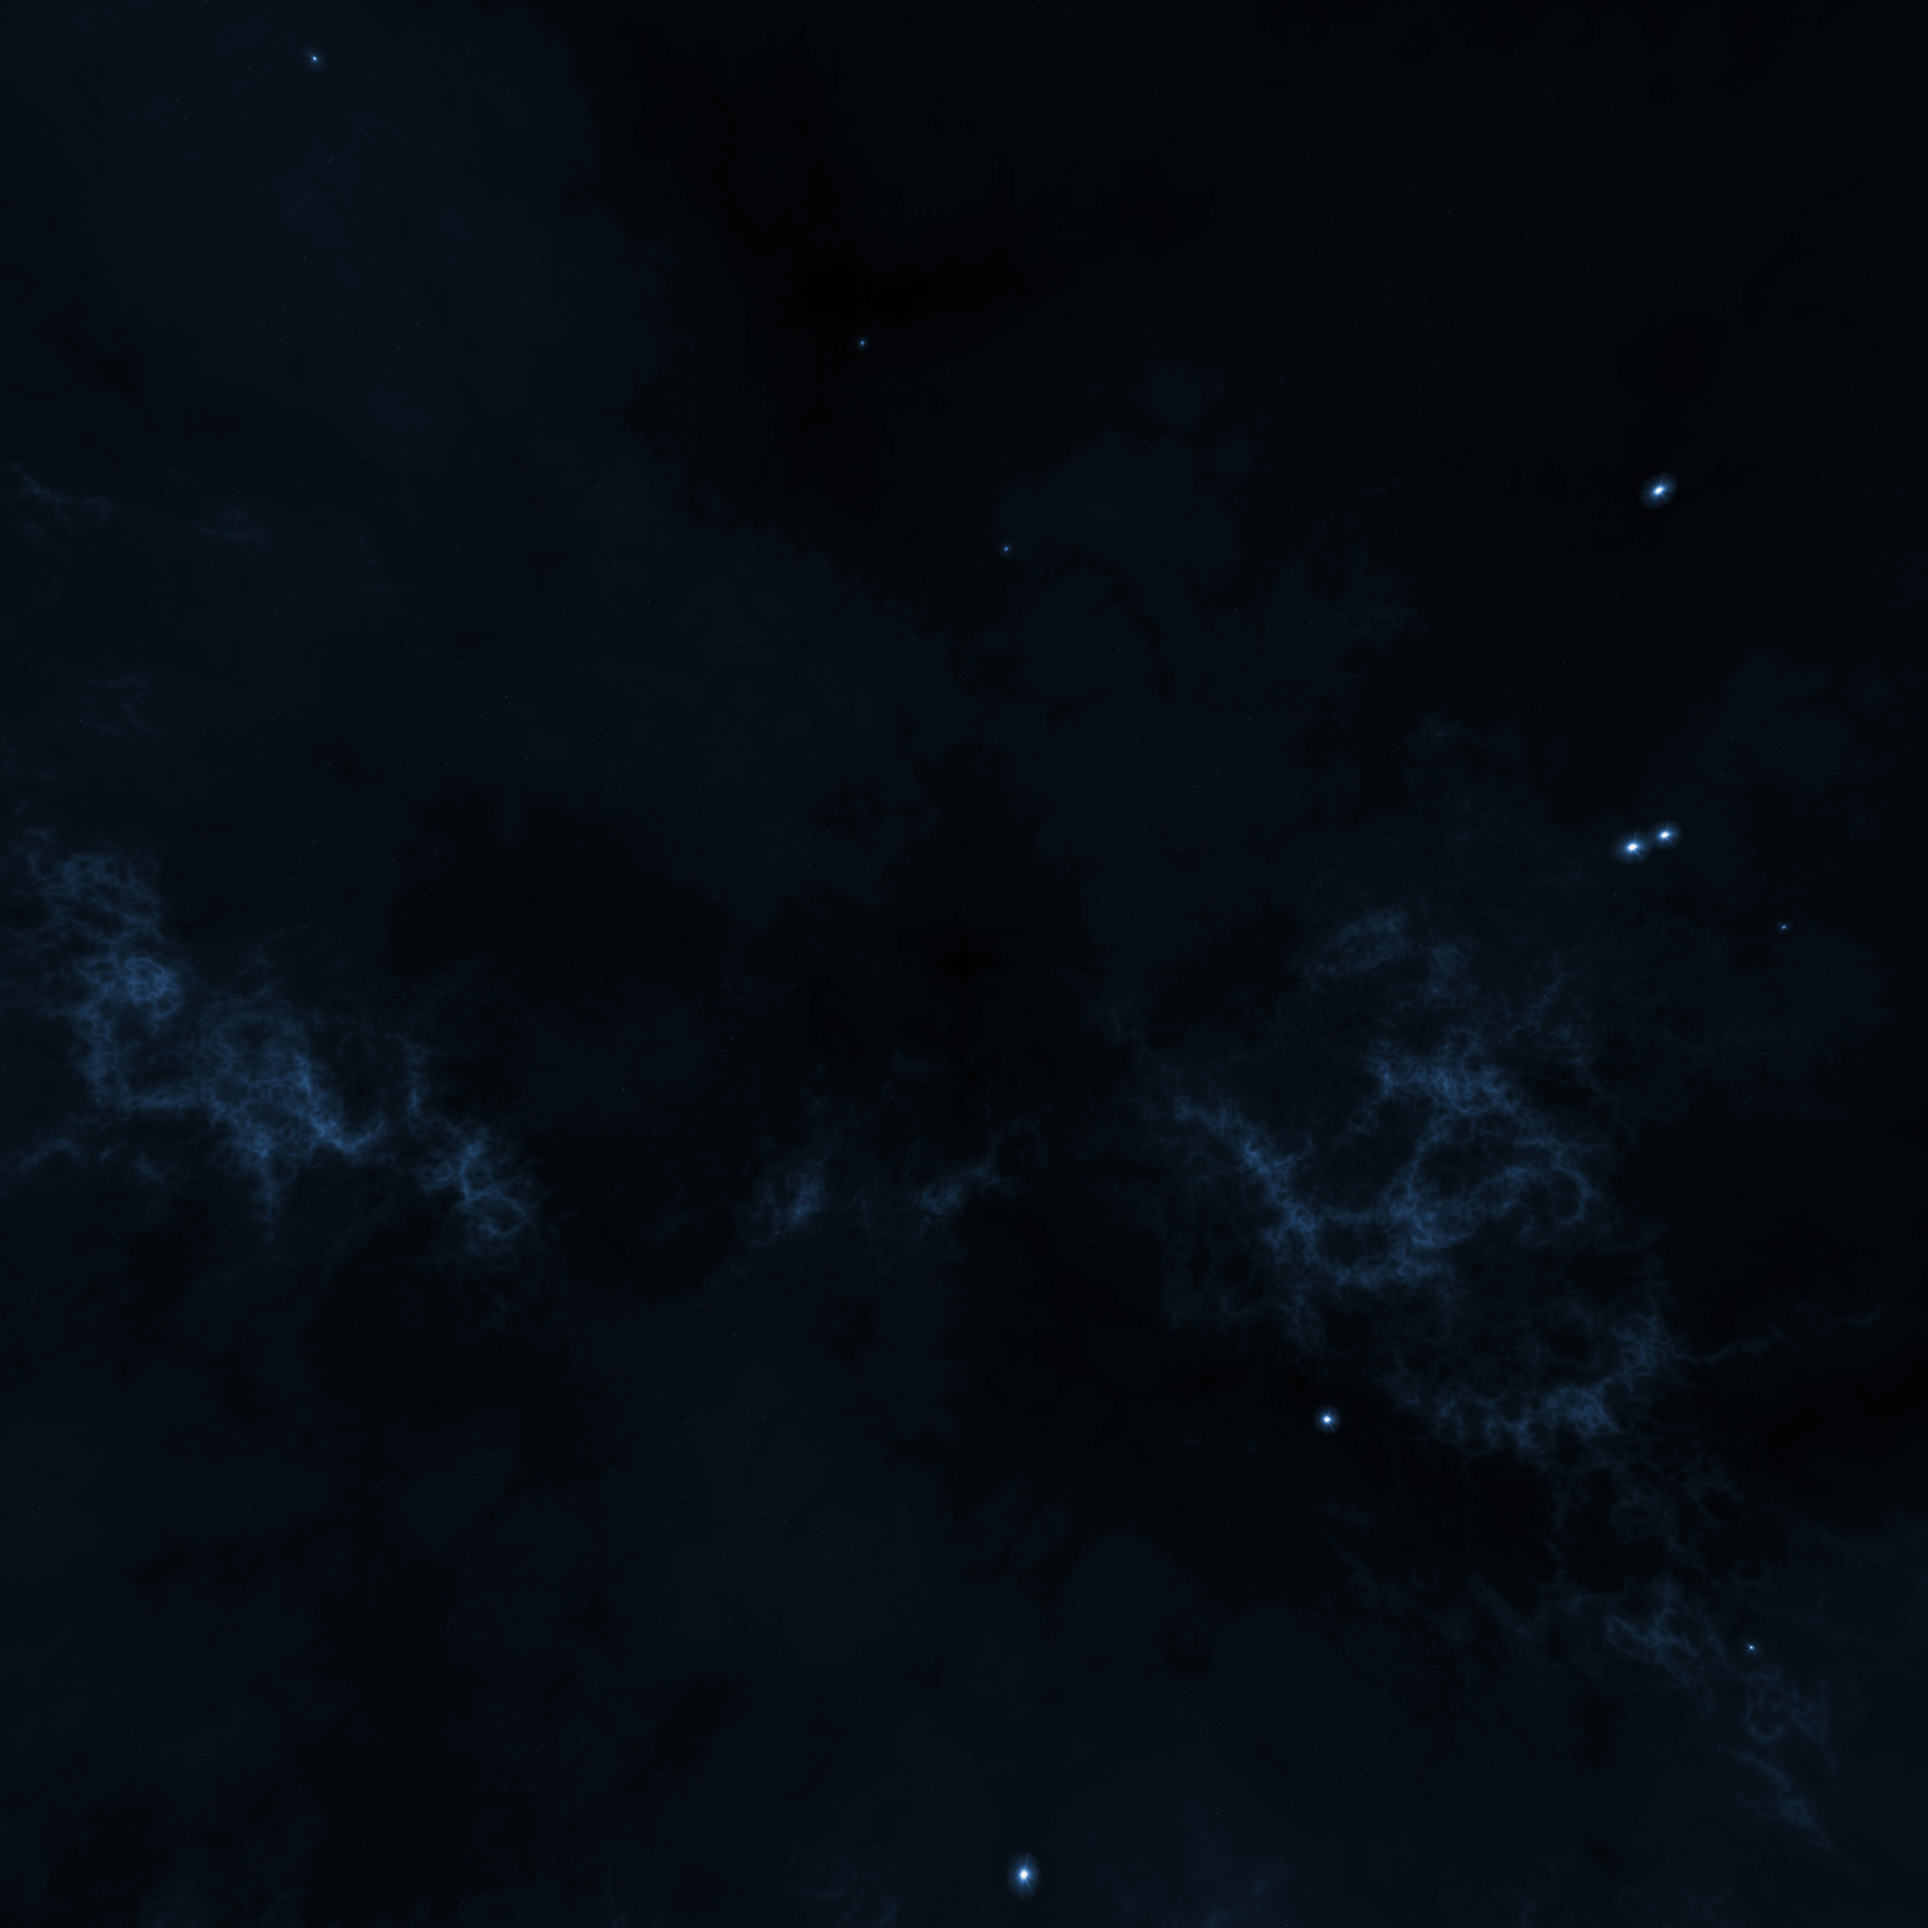
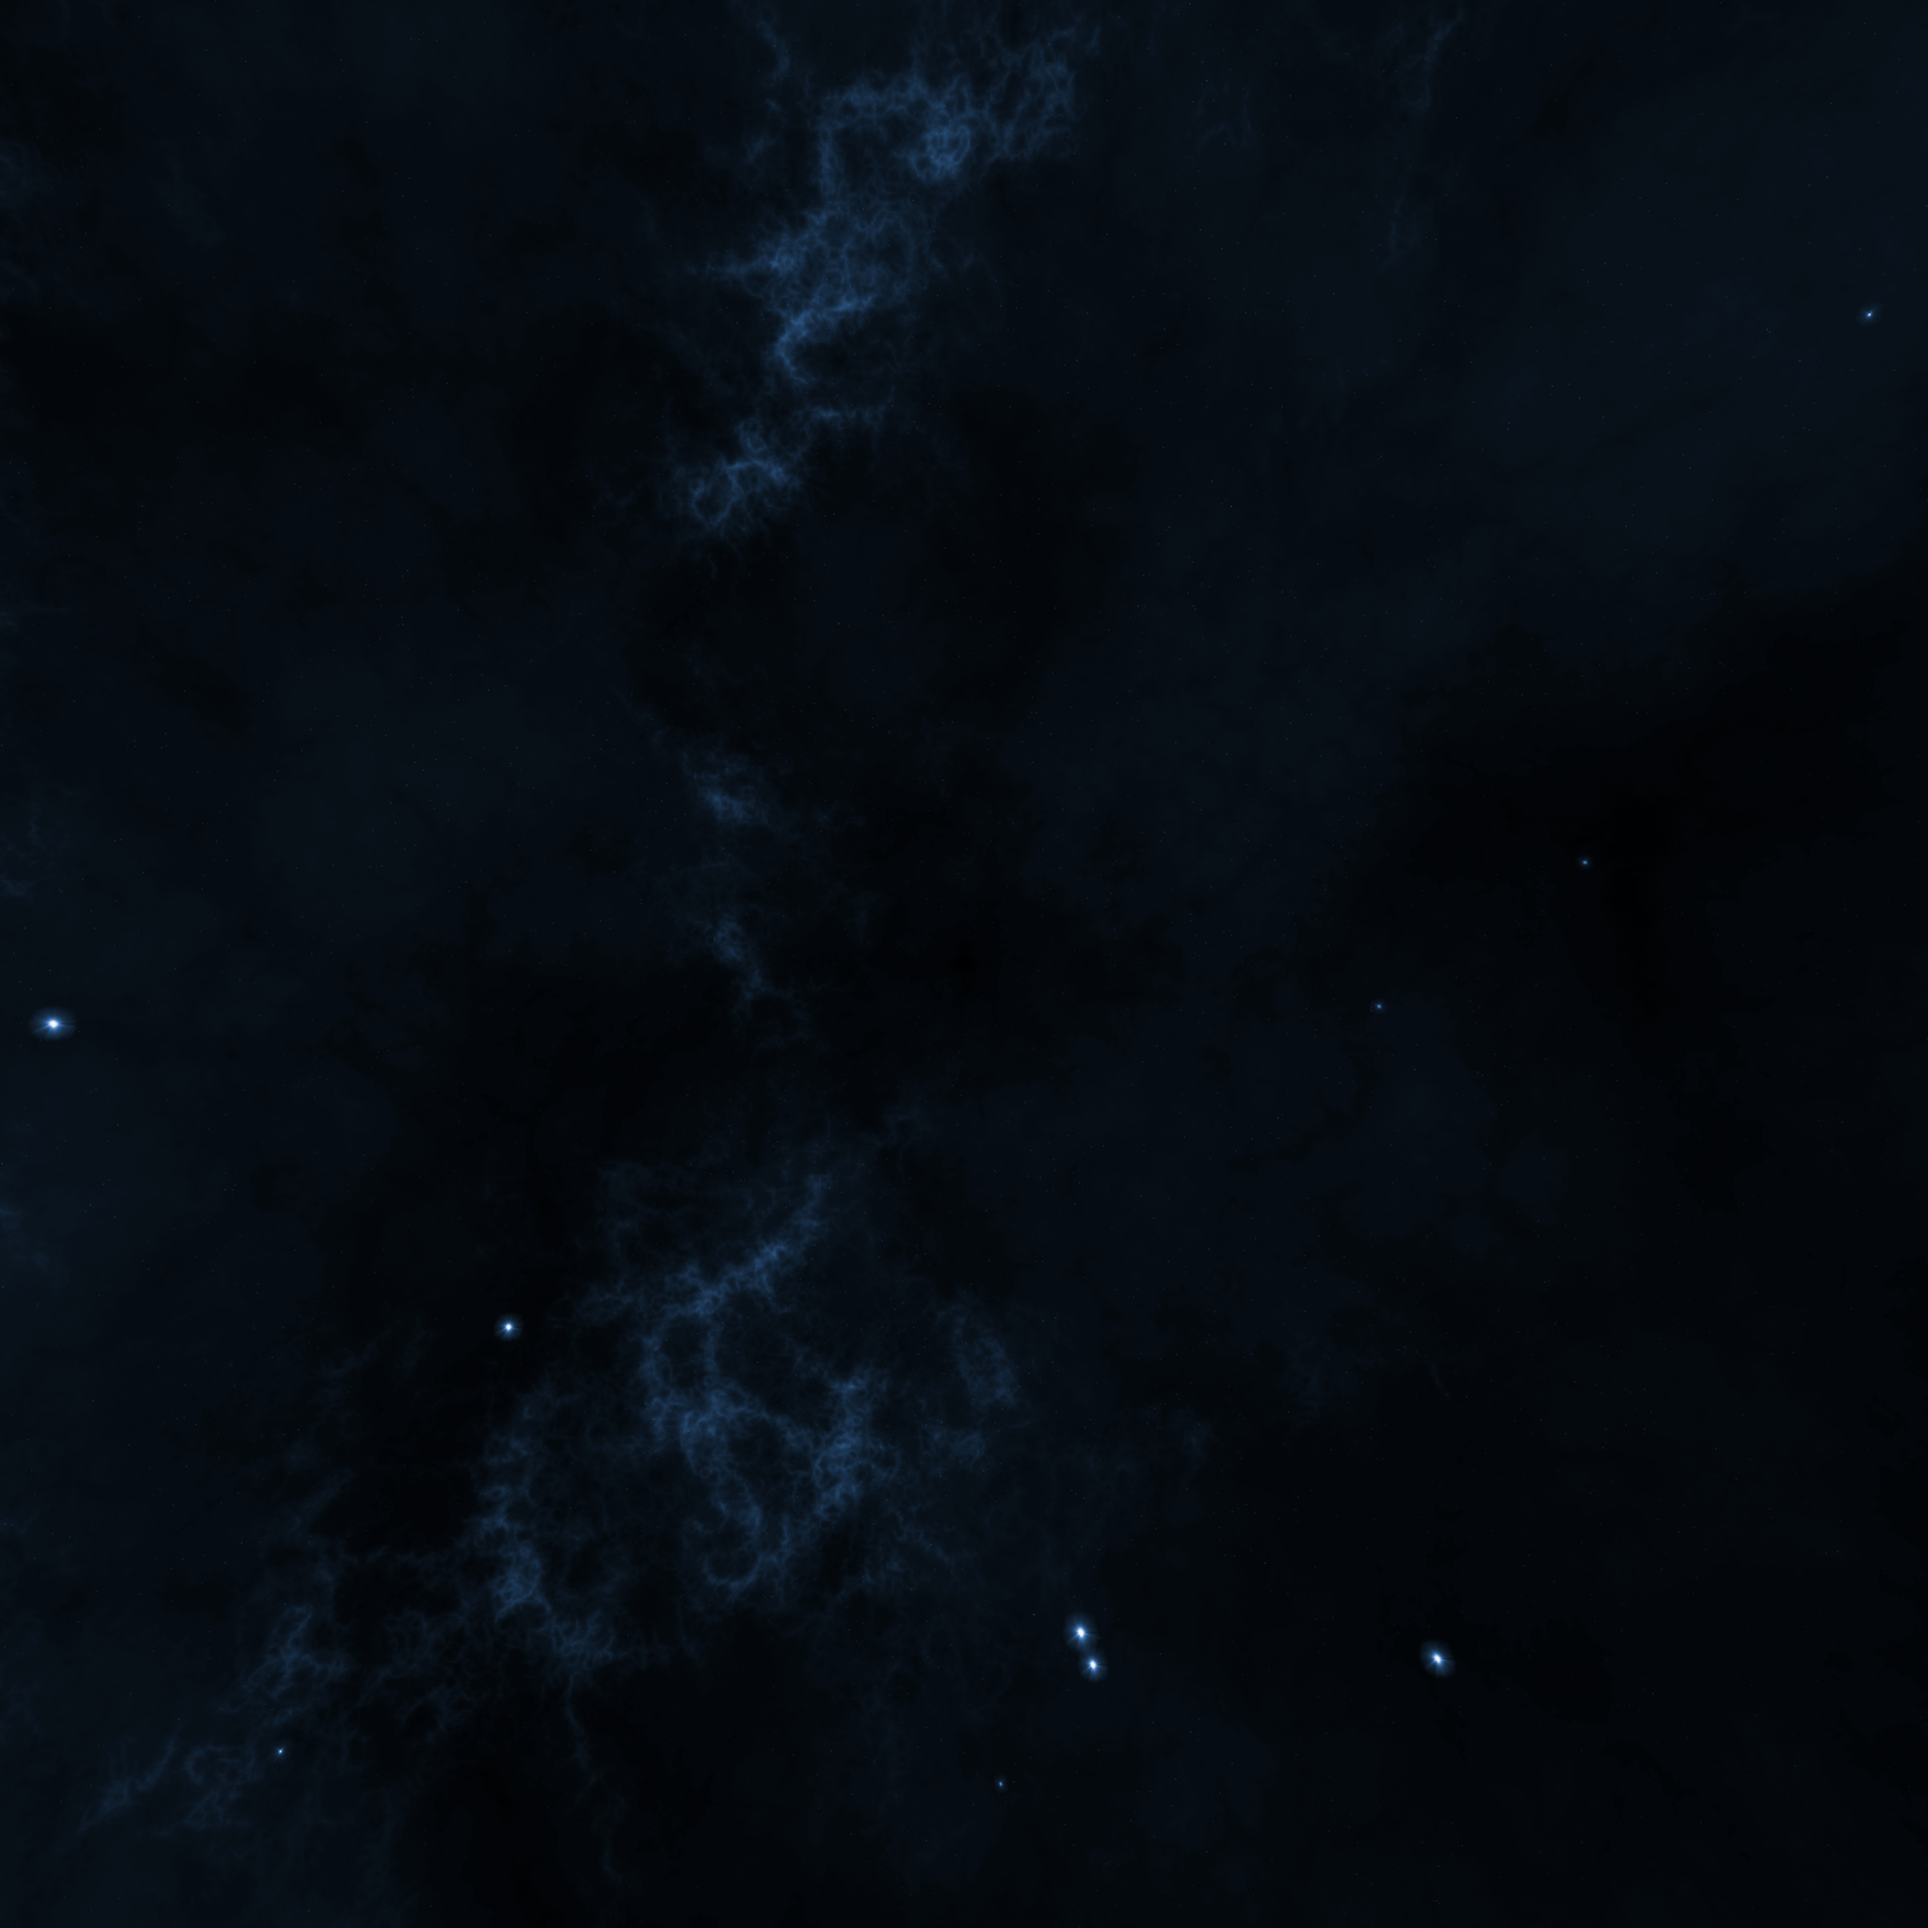
skybox

diff --git a/Chess3D/SceneManager.cpp b/Chess3D/SceneManager.cpp
@@ -223,6 +223,7 @@ int SceneManager::arrange() {
     m_gouraudShader = Shader("shaders/gouraud.vert", "shaders/gouraud.frag");
     m_phongShader = Shader("shaders/phong.vert", "shaders/phong.frag");
     m_depthShader = Shader("shaders/depth.vert", "shaders/depth.frag");
+    m_skyboxShader = Shader("shaders/skybox.vert", "shaders/skybox.frag");
 
     // === DATA ===
     if (loadModels()) {
@@ -231,17 +232,18 @@ int SceneManager::arrange() {
     }
 
     std::vector<std::string> faces{
-        "skybox1/1.png",
-        "skybox1/2.png",
-        "skybox1/3.png",
         "skybox1/4.png",
+        "skybox1/2.png",
         "skybox1/5.png",
-        "skybox1/6.png"
+        "skybox1/6.png",
+        "skybox1/1.png",
+        "skybox1/3.png"
     };
     if (m_skybox.loadCubemap(faces)) {
         std::cerr << "Error loading skybox" << std::endl;
         return 1;
     }
+    m_skybox.setupSkybox();
 
     return 0;
 }
@@ -286,6 +288,7 @@ int SceneManager::run() {
         }
 
         renderScene();
+        renderSkybox();
         renderUI();
 
         ImGui::Render();
@@ -417,12 +420,35 @@ void SceneManager::renderModels(Shader& shader, RenderType renderMode)
     }
 }
 
+void SceneManager::renderSkybox()
+{
+    //glDepthMask(GL_FALSE);
+    glDepthFunc(GL_LEQUAL);
+    glViewport(0, 0, m_width, m_height);
+    m_skyboxShader.use();
+
+    glm::mat4 view = glm::mat4(glm::mat3(m_camera.GetViewMatrix()));
+    glm::mat4 projection = glm::perspective(glm::radians(m_camera.Zoom), (float)m_width / (float)m_height, 0.1f, 100.0f);
+
+    //m_skyboxShader.setInt("skybox", 0);
+    m_skyboxShader.setMat4("view", view);
+    m_skyboxShader.setMat4("projection", projection);
+
+    m_skybox.Draw(m_skyboxShader);
+    //glDepthMask(GL_TRUE);
+    glDepthFunc(GL_LESS);
+}
+
 void SceneManager::animateBlackQueen()
 {
     // TODO: better handling of constatnts
+    // TODO: fix for debug
     // translation borders
-    if (m_blackQueen.modelMatrix[3][0] > 1.4f || m_blackQueen.modelMatrix[3][0] < -0.8f) {
-        m_speedFactor = -m_speedFactor;
+    if (m_blackQueen.modelMatrix[3][0] > 1.4f) {
+        m_speedFactor = -1.0f;
+    }
+    else if (m_blackQueen.modelMatrix[3][0] < -0.8f) {
+        m_speedFactor = 1.0f;
     }
 
     // recalculate mode matrix

diff --git a/Chess3D/Skybox.h b/Chess3D/Skybox.h
@@ -1,15 +1,67 @@
 #ifndef SKYBOX_H
 #define SKYBOX_H
 
+constexpr int SKYBOX_TRIANGLE_COUNT = 36;
+
 #include <vector>
 #include <string>
+
+#include "Shader.h"
 
 class Skybox
 {
 public:
 	int loadCubemap(std::vector<std::string> faces);
+    void Draw(Shader shader);
+    void setupSkybox();
 
 	unsigned int textureId;
+    float skyboxVertices[3 * SKYBOX_TRIANGLE_COUNT] = {       
+        -1.0f,  1.0f, -1.0f,
+        -1.0f, -1.0f, -1.0f,
+         1.0f, -1.0f, -1.0f,
+         1.0f, -1.0f, -1.0f,
+         1.0f,  1.0f, -1.0f,
+        -1.0f,  1.0f, -1.0f,
+
+        -1.0f, -1.0f,  1.0f,
+        -1.0f, -1.0f, -1.0f,
+        -1.0f,  1.0f, -1.0f,
+        -1.0f,  1.0f, -1.0f,
+        -1.0f,  1.0f,  1.0f,
+        -1.0f, -1.0f,  1.0f,
+
+         1.0f, -1.0f, -1.0f,
+         1.0f, -1.0f,  1.0f,
+         1.0f,  1.0f,  1.0f,
+         1.0f,  1.0f,  1.0f,
+         1.0f,  1.0f, -1.0f,
+         1.0f, -1.0f, -1.0f,
+
+        -1.0f, -1.0f,  1.0f,
+        -1.0f,  1.0f,  1.0f,
+         1.0f,  1.0f,  1.0f,
+         1.0f,  1.0f,  1.0f,
+         1.0f, -1.0f,  1.0f,
+        -1.0f, -1.0f,  1.0f,
+
+        -1.0f,  1.0f, -1.0f,
+         1.0f,  1.0f, -1.0f,
+         1.0f,  1.0f,  1.0f,
+         1.0f,  1.0f,  1.0f,
+        -1.0f,  1.0f,  1.0f,
+        -1.0f,  1.0f, -1.0f,
+
+        -1.0f, -1.0f, -1.0f,
+        -1.0f, -1.0f,  1.0f,
+         1.0f, -1.0f, -1.0f,
+         1.0f, -1.0f, -1.0f,
+        -1.0f, -1.0f,  1.0f,
+         1.0f, -1.0f,  1.0f
+    };
+
+private:
+    unsigned int VAO, VBO;
 };
 
 #endif

diff --git a/Chess3D/Skybox.cpp b/Chess3D/Skybox.cpp
@@ -32,3 +32,29 @@ int Skybox::loadCubemap(std::vector<std::string> faces)
 
     return 0;
 }
+
+void Skybox::Draw(Shader shader)
+{
+    glBindVertexArray(VAO);
+    glBindTexture(GL_TEXTURE_CUBE_MAP, textureId);
+    glDrawArrays(GL_TRIANGLES, 0, SKYBOX_TRIANGLE_COUNT);
+    glBindVertexArray(0);
+}
+
+void Skybox::setupSkybox()
+{
+    glGenVertexArrays(1, &VAO);
+    glGenBuffers(1, &VBO);
+
+    glBindVertexArray(VAO);
+    glBindBuffer(GL_ARRAY_BUFFER, VBO);
+
+    glBufferData(GL_ARRAY_BUFFER, sizeof(skyboxVertices), &skyboxVertices, GL_STATIC_DRAW);
+
+
+    // vertex positions
+    glEnableVertexAttribArray(0);
+    glVertexAttribPointer(0, 3, GL_FLOAT, GL_FALSE, 3 * sizeof(float), (void*)0);
+
+    glBindVertexArray(0);
+}

diff --git a/Chess3D/SceneManager.h b/Chess3D/SceneManager.h
@@ -40,6 +40,7 @@ private:
 	Shader m_gouraudShader;
 	Shader m_phongShader;
 	Shader m_depthShader;
+	Shader m_skyboxShader;
 
 	// === LIGHTS & MATERIAL ===
 	std::vector<PointLight> m_pointLights;
@@ -111,6 +112,7 @@ private:
 	void renderPointLightDepthMap(const PointLight& light, RenderType renderMode);
 	void renderScene();
 	void renderModels(Shader& shader, RenderType renderMode = RenderType::Everything);
+	void renderSkybox();
 	void animateBlackQueen();
 	int terminate();
 };
